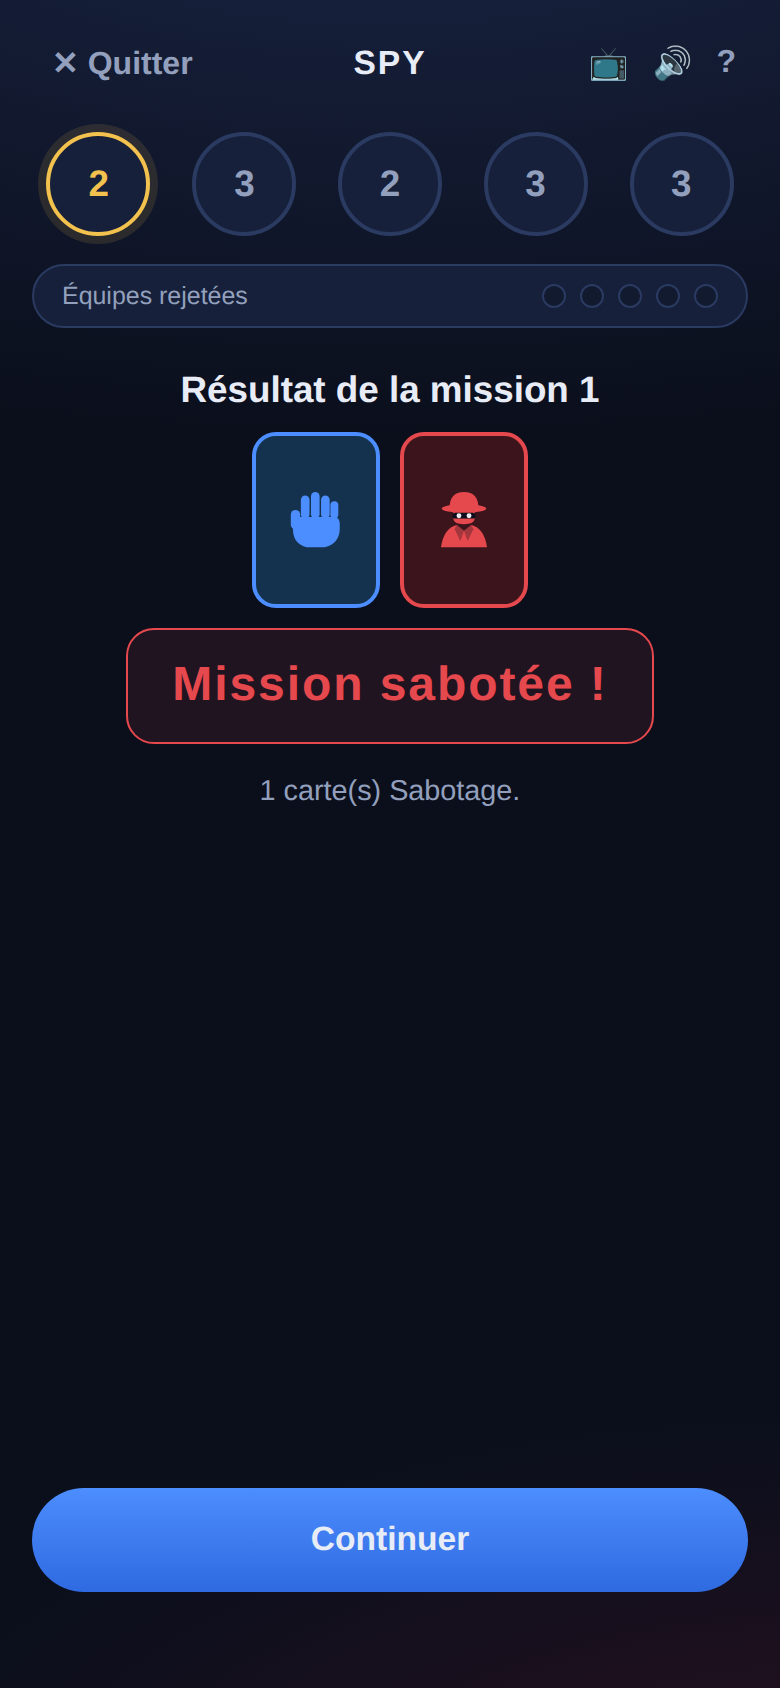
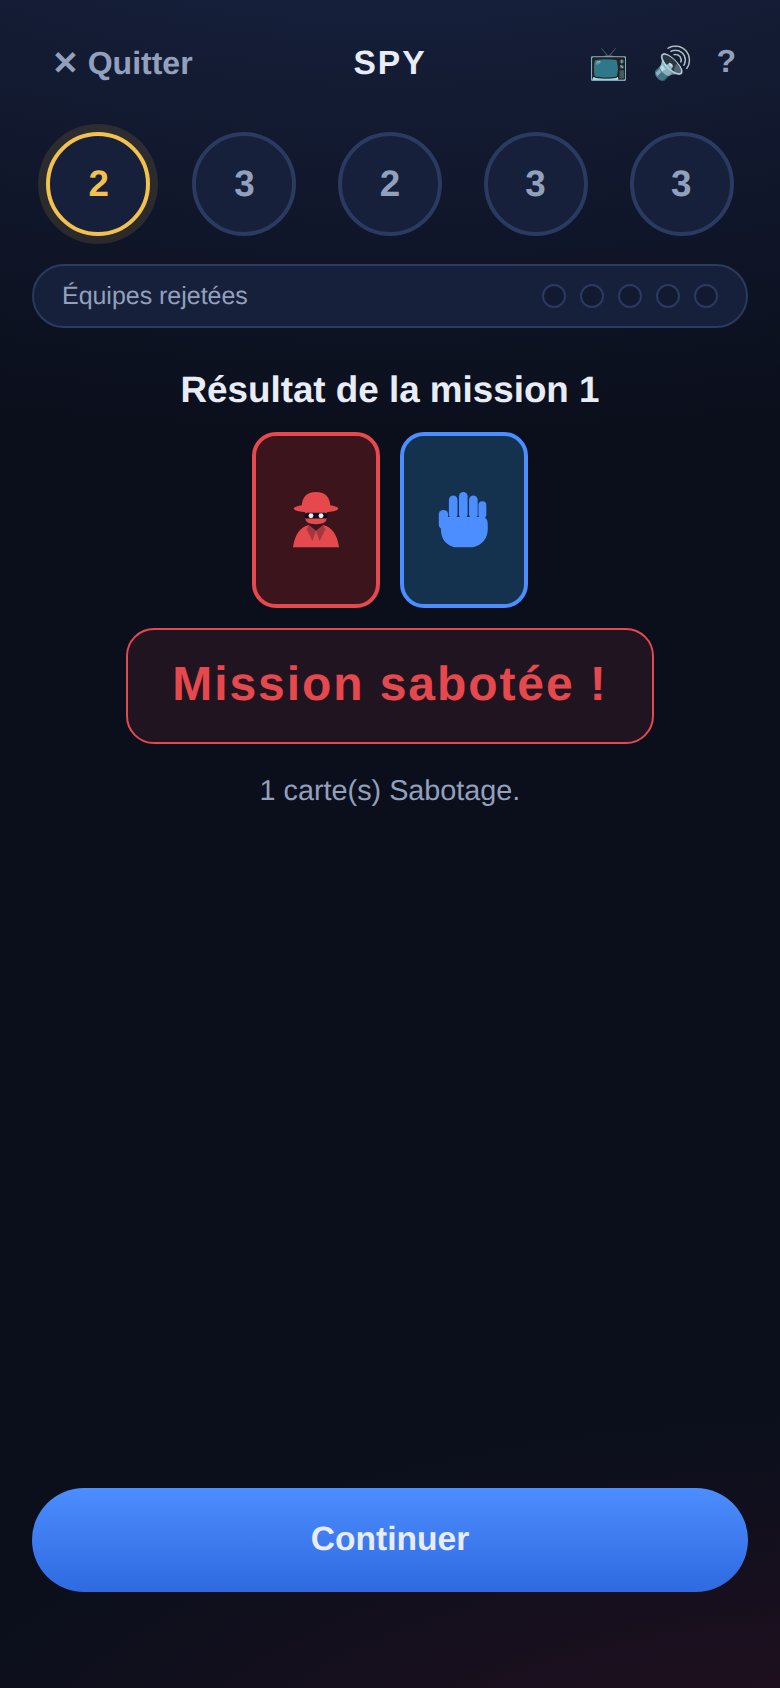
Mission : un Résistant reçoit deux cartes Succès (jamais de carte Sabotage)
Comme avec de vraies cartes : seul un Spy a Succès + Sabotage (ordre
aléatoire). Un Résistant ne peut plus toucher « Sabotage » ni douter de
son camp — le rappel sous les cartes, identique pour tous, explique la
règle. Tests e2e : chaque passage de résistant vérifie 2 Succès / 0
Sabotage ; nouvelle capture 06b.

Claude-Session: https://claude.ai/code/session_01JPXwtAPd76jqgUSm7TX1WG

Changed region(s): [[0.3077, 0.2464, 0.6769, 0.3697]]

diff --git a/js/app.js b/js/app.js
@@ -100,7 +100,8 @@
       missionIdx: 0,
       missionStage: 'pass', // pass | pick
       missionPick: null,
-      missionSwap: false, // ordre aléatoire des deux cartes (anti-observation)
+      missionPickIdx: null, // carte touchée (0 | 1) — pour le surlignage
+      missionSwap: false, // ordre aléatoire des deux cartes du spy (anti-observation)
       missionChoices: [],
       revealCards: [],
       assassinPick: null,
@@ -463,6 +464,7 @@
       g().missionIdx = 0;
       g().missionStage = 'pass';
       g().missionPick = null;
+      g().missionPickIdx = null;
       g().missionChoices = [];
     } else {
       g().leader = (g().leader + 1) % nPlayers();
@@ -476,6 +478,7 @@
   function recordMissionChoice(success) {
     g().missionChoices.push(!!success);
     g().missionPick = null;
+    g().missionPickIdx = null;
     if (g().missionChoices.length >= g().team.length) {
       // Toutes les cartes sont jouées : préparer la révélation mélangée.
       var cards = g().missionChoices.map(function (ok) { return ok ? 'S' : 'F'; });
@@ -954,36 +957,42 @@
         '</section>';
     }
 
-    // Stage « pick ». L'écran est STRICTEMENT identique quel que soit le
-    // rôle : mêmes cartes neutres pour tous, ordre mélangé par joueur, et
-    // aucun état désactivé — un Échec joué par un résistant sera simplement
-    // compté comme un Succès (règle officielle). Impossible de deviner le
-    // camp de quelqu'un en le regardant jouer.
-    var pick = game.missionPick; // null | true (succès) | false (échec)
+    // Stage « pick ». Comme avec de vraies cartes : un Résistant reçoit
+    // DEUX cartes Succès (il ne peut pas saboter — et voir une carte
+    // Sabotage ferait douter de son camp un joueur distrait) ; un Spy
+    // reçoit Succès + Sabotage dans un ordre tiré au sort pour lui, donc la
+    // position du doigt ne révèle rien. Fonds neutres identiques, aucune
+    // carte désactivée, et le rappel sous les cartes est le même pour tous.
+    var pick = game.missionPick;        // null | true (succès) | false (échec)
+    var pickIdx = game.missionPickIdx;  // null | 0 | 1 (carte touchée)
+    var hasPick = typeof pickIdx === 'number';
     var confirmBar = pick === null ? '' :
       '<div class="confirm-bar">' +
       '  <button class="btn btn-ghost" data-action="pickChange">' + t('mission.change') + '</button>' +
       '  <button class="btn btn-primary" data-action="pickConfirm">' + t('mission.confirm') + '</button>' +
       '</div>';
-    var successCard =
-      '<button class="mcard neutral success' + (pick === true ? ' picked' : '') + (pick === false ? ' dim' : '') + '"' +
-      '  data-action="pickSuccess">' +
-      '  <span class="mcard-icon">' + ICONS.fist + '</span>' + t('mission.success') + '</button>';
-    var failCard =
-      '<button class="mcard neutral fail' + (pick === false ? ' picked' : '') + (pick === true ? ' dim' : '') + '"' +
-      '  data-action="pickFail">' +
-      '  <span class="mcard-icon">' + ICONS.spy + '</span>' + t('mission.fail') + '</button>';
+    var cards = missionCardTypes(game, p.role).map(function (type, i) {
+      var sel = hasPick ? (pickIdx === i ? ' picked' : ' dim') : '';
+      return '<button class="mcard neutral ' + type + sel + '"' +
+        ' data-action="pickCard" data-idx="' + i + '">' +
+        '<span class="mcard-icon">' + (type === 'success' ? ICONS.fist : ICONS.spy) + '</span>' +
+        t(type === 'success' ? 'mission.success' : 'mission.fail') + '</button>';
+    }).join('');
     return '' +
       '<section class="phase center-phase">' +
       '  <p class="progress">' + pos + ' — ' + esc(p.name) + '</p>' +
       '  <h3>' + t('mission.pick') + '</h3>' +
       '  <p class="hint center">' + t('mission.pickHint') + '</p>' +
-      '  <div class="mission-cards">' +
-      (game.missionSwap ? failCard + successCard : successCard + failCard) +
-      '  </div>' +
+      '  <div class="mission-cards">' + cards + '</div>' +
       '  <p class="hint center">' + t('mission.rule') + '</p>' +
       confirmBar +
       '</section>';
+  }
+
+  // Les deux cartes présentées au joueur selon son camp.
+  function missionCardTypes(game, role) {
+    if (role === 'res') return ['success', 'success'];
+    return game.missionSwap ? ['fail', 'success'] : ['success', 'fail'];
   }
 
   function viewMissionReveal() {
@@ -1360,19 +1369,22 @@
     missionImHere: function () {
       g().missionStage = 'pick';
       g().missionPick = null;
-      // Ordre des deux cartes tiré au sort pour ce joueur : la position du
-      // doigt ne révèle rien à ceux qui regardent.
+      g().missionPickIdx = null;
+      // Ordre des deux cartes du spy tiré au sort pour ce joueur : la
+      // position du doigt ne révèle rien à ceux qui regardent.
       g().missionSwap = Math.random() < 0.5;
       save();
     },
-    pickSuccess: function () { g().missionPick = true; },
-    pickFail: function () {
-      var member = g().players[g().team[g().missionIdx]];
-      // Un résistant ne peut pas saboter : son geste sélectionne la carte
-      // Succès (même geste pour tous — la règle est affichée sous les cartes).
-      g().missionPick = member.role === 'res' ? true : false;
+    pickCard: function (el) {
+      var game = g();
+      var i = parseInt(el.getAttribute('data-idx'), 10);
+      var member = game.players[game.team[game.missionIdx]];
+      var type = missionCardTypes(game, member.role)[i];
+      if (!type) return 'noRender';
+      game.missionPick = type === 'success';
+      game.missionPickIdx = i;
     },
-    pickChange: function () { g().missionPick = null; },
+    pickChange: function () { g().missionPick = null; g().missionPickIdx = null; },
     pickConfirm: function () {
       var game = g();
       if (game.missionPick === null) return;

diff --git a/tests/e2e.js b/tests/e2e.js
@@ -107,18 +107,27 @@ async function main() {
     await click('[data-action="afterVote"]');
   }
 
-  // Joue la mission : les espions sabotent si `spiesFail` ; si
-  // `resTapFail`, les résistants TOUCHENT aussi Échec (qui doit être
-  // compté comme Succès par la règle officielle).
-  async function runMission(spiesFail, resTapFail) {
+  // Joue la mission : les espions sabotent si `spiesFail`. Un résistant ne
+  // voit JAMAIS de carte Sabotage : il a deux cartes Succès (vérifié à
+  // chaque passage) ; si `resSecondCard`, il touche la seconde.
+  async function runMission(spiesFail, resSecondCard) {
     let st = await state();
     const teamLen = st.game.team.length;
     for (let k = 0; k < teamLen; k++) {
       st = await state();
       const member = st.game.players[st.game.team[st.game.missionIdx]];
       await click('[data-action="missionImHere"]');
-      const tapFail = member.role === 'spy' ? spiesFail : !!resTapFail;
-      await click(tapFail ? '[data-action="pickFail"]' : '[data-action="pickSuccess"]');
+      if (member.role === 'spy') {
+        assert.strictEqual(await page.locator('.mcard.success').count(), 1, 'une carte Succès pour le spy');
+        assert.strictEqual(await page.locator('.mcard.fail').count(), 1, 'une carte Sabotage pour le spy');
+        await page.locator(spiesFail ? '.mcard.fail' : '.mcard.success').first().click();
+      } else {
+        assert.strictEqual(await page.locator('.mcard.fail').count(), 0, 'aucune carte Sabotage pour un résistant');
+        assert.strictEqual(await page.locator('.mcard.success').count(), 2, 'deux cartes Succès pour un résistant');
+        await page.locator('.mcard.success').nth(resSecondCard ? 1 : 0).click();
+        const picked = await state();
+        assert.strictEqual(picked.game.missionPick, true, 'toute carte d’un résistant est un Succès');
+      }
       await click('[data-action="pickConfirm"]');
     }
     // Révélation des cartes.
@@ -217,22 +226,30 @@ async function main() {
     if (round === 0) await shot('05-vote');
     await voteAll('up', true);
     if (round === 0) {
-      // Membre 1 : l'espion sabote (avec test du bouton « changer »).
+      // Membre 1 : l'espion voit Succès + Sabotage et sabote (avec test
+      // du bouton « changer »).
       await click('[data-action="missionImHere"]');
       await shot('06-mission-choix');
-      // Écran identique pour tous : aucune carte ne doit être désactivée.
       assert.strictEqual(await page.locator('.mcard[disabled]').count(), 0, 'aucune carte désactivée');
-      await click('[data-action="pickSuccess"]');
+      assert.strictEqual(await page.locator('.mcard.success').count(), 1, 'une carte Succès pour le spy');
+      assert.strictEqual(await page.locator('.mcard.fail').count(), 1, 'une carte Sabotage pour le spy');
+      await page.locator('.mcard.success').first().click();
       await click('[data-action="pickChange"]');
-      await click('[data-action="pickFail"]');
+      await page.locator('.mcard.fail').first().click();
+      let s1 = await state();
+      assert.strictEqual(s1.game.missionPick, false, 'le spy a bien sélectionné Sabotage');
       await click('[data-action="pickConfirm"]');
-      // Membre 2 : le résistant TOUCHE Échec — c'est la carte Succès qui
-      // doit se sélectionner (il ne peut pas saboter).
+      // Membre 2 : le résistant reçoit DEUX cartes Succès — aucune carte
+      // Sabotage sur son écran (il ne peut pas saboter, et il ne peut pas
+      // croire à tort qu'il serait un spy).
       await click('[data-action="missionImHere"]');
-      await click('[data-action="pickFail"]');
+      assert.strictEqual(await page.locator('.mcard.fail').count(), 0, 'aucune carte Sabotage pour un résistant');
+      assert.strictEqual(await page.locator('.mcard.success').count(), 2, 'deux cartes Succès pour un résistant');
+      await shot('06b-mission-resistant');
+      await page.locator('.mcard.success').nth(1).click();
       let s2 = await state();
       assert.strictEqual(s2.game.missionPick, true,
-        'le geste Échec d’un résistant sélectionne Succès');
+        'la seconde carte d’un résistant est aussi un Succès');
       await click('[data-action="pickConfirm"]');
       let s3 = await state();
       assert.deepStrictEqual(s3.game.missionChoices, [false, true],
@@ -241,7 +258,7 @@ async function main() {
       while (s3.game.phase === 'mission') {
         const m = s3.game.players[s3.game.team[s3.game.missionIdx]];
         await click('[data-action="missionImHere"]');
-        await click(m.role === 'spy' ? '[data-action="pickFail"]' : '[data-action="pickSuccess"]');
+        await page.locator(m.role === 'spy' ? '.mcard.fail' : '.mcard.success').first().click();
         await click('[data-action="pickConfirm"]');
         s3 = await state();
       }
@@ -304,13 +321,13 @@ async function main() {
   for (let round = 0; round < 3; round++) {
     await pickTeam(resOnly.slice(0, [2, 3, 2][round]));
     await voteAll('up', true);
-    // Équipe 100 % résistante qui TOUCHE Échec : la règle officielle doit
-    // compter chaque carte comme un Succès.
+    // Équipe 100 % résistante : chacun n'a que des cartes Succès (ici tous
+    // touchent la seconde) — la mission réussit forcément.
     await runMission(true, true);
     await click('[data-action="missionDone"]');
     st = await state();
     assert.strictEqual(st.game.missions[round].result, 'success',
-      'mission réussie malgré des gestes Échec résistants');
+      'mission réussie — les résistants n’ont que des cartes Succès');
   }
   st = await state();
   assert.strictEqual(st.screen, 'gameover');

diff --git a/js/i18n.js b/js/i18n.js
@@ -89,7 +89,7 @@ var I18N = {
     'mission.pickHint': 'Cache bien ton écran.',
     'mission.success': 'SUCCÈS',
     'mission.fail': 'SABOTAGE',
-    'mission.rule': 'Rappel : les Résistants jouent toujours Succès.',
+    'mission.rule': 'Rappel : un Résistant reçoit deux cartes Succès — seul un Spy peut saboter.',
     'mission.confirm': 'Valider ce choix',
     'mission.change': 'Changer',
     'mission.revealTitle': 'Résultat de la mission {i}',
@@ -140,7 +140,7 @@ var I18N = {
     'tut.p4h': 'Tout le monde vote',
     'tut.p4t': 'Équipe rejetée ? Le joueur suivant devient chef. Cinq rejets d’affilée : les espions gagnent !',
     'tut.p5h': 'La mission secrète',
-    'tut.p5t': 'Chaque membre joue en secret. Un seul Sabotage fait échouer la mission — et un Résistant joue toujours Succès.',
+    'tut.p5t': 'Chaque membre joue en secret : un Résistant a deux cartes Succès, seul un Spy peut saboter. Un seul Sabotage fait échouer la mission.',
     'tut.p6h': 'La victoire',
     'tut.p6t': 'Premier camp à 3 missions (2 en format court à 4 joueurs). Égalité 2-2 : finale décisive, 2 sabotages requis !',
     'rules.traps': 'À surveiller',
@@ -266,7 +266,7 @@ var I18N = {
     'mission.pickHint': 'Shield your screen.',
     'mission.success': 'SUCCESS',
     'mission.fail': 'SABOTAGE',
-    'mission.rule': 'Reminder: Agents always play Success.',
+    'mission.rule': 'Reminder: an Agent gets two Success cards — only a Spy can sabotage.',
     'mission.confirm': 'Confirm choice',
     'mission.change': 'Change',
     'mission.revealTitle': 'Mission {i} result',
@@ -317,7 +317,7 @@ var I18N = {
     'tut.p4h': 'Everyone votes',
     'tut.p4t': 'Team rejected? The next player becomes leader. Five rejections in a row: the spies win!',
     'tut.p5h': 'The secret mission',
-    'tut.p5t': 'Each member plays in secret. A single Sabotage fails the mission — and an Agent always plays Success.',
+    'tut.p5t': 'Each member plays in secret: an Agent gets two Success cards, only a Spy can sabotage. A single Sabotage fails the mission.',
     'tut.p6h': 'Victory',
     'tut.p6t': 'First side to 3 missions (2 in the 4-player short format). 2-2 tie: decisive final, 2 Sabotages required!',
     'rules.traps': 'Watch out',

diff --git a/sw.js b/sw.js
@@ -1,5 +1,5 @@
 /* Service worker : mise en cache de l'application pour jouer hors ligne. */
-var CACHE = 'spy-v16';
+var CACHE = 'spy-v17';
 var ASSETS = [
   './',
   './index.html',

diff --git a/README.md b/README.md
@@ -22,16 +22,17 @@ compte, aucune donnée collectée.
   rotation du chef d'équipe, piste des votes rejetés (5 rejets = victoire des
   espions), règle des « 2 échecs » pour la mission 4 à partir de 7 joueurs.
 - **Vote public** pour approuver ou rejeter chaque équipe.
-- **Missions secrètes** : chaque agent choisit Succès ou Sabotage sur le
-  téléphone, puis on retourne les cartes mélangées — impossible de savoir qui
-  a saboté.
-- **Anti-regards indiscrets** : pendant une mission, l'écran est strictement
-  identique pour tous les rôles (mêmes fonds de cartes, rien de désactivé —
-  seules les étiquettes sont colorées : Sabotage en rouge, Succès en bleu),
-  l'ordre des deux cartes est tiré au sort pour chaque joueur (la position du
-  doigt ne révèle rien), et un Agent qui touche Sabotage sélectionne
-  automatiquement Succès (règle du jeu). Les cartes de rôle utilisent
-  aussi un fond neutre illisible à distance.
+- **Missions secrètes** : comme avec de vraies cartes, chaque membre de
+  l'équipe joue sa carte en secret sur le téléphone, puis on retourne les
+  cartes mélangées — impossible de savoir qui a saboté. Un Résistant reçoit
+  **deux cartes Succès** (il ne peut pas saboter — et ne peut pas croire à
+  tort qu'il serait un espion) ; seul un Spy reçoit Succès **et** Sabotage.
+- **Anti-regards indiscrets** : fonds de cartes neutres illisibles à
+  distance (seules les étiquettes sont colorées : Sabotage en rouge, Succès
+  en bleu), rien n'est jamais désactivé, l'ordre des deux cartes du Spy est
+  tiré au sort pour chaque joueur (la position du doigt ne révèle rien), et
+  le rappel affiché sous les cartes est identique pour tous. Les cartes de
+  rôle utilisent aussi un fond neutre.
 - **Thème clair ou sombre** ☀🌙 : bouton sur l'écran d'accueil, préférence
   mémorisée.
 - **Mode TV (bêta)** 📺 : depuis un téléphone Android (Chrome), le bouton 📺
